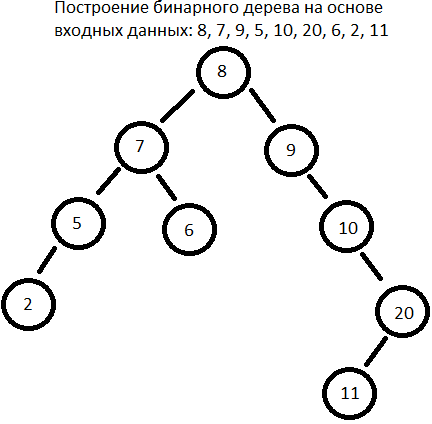
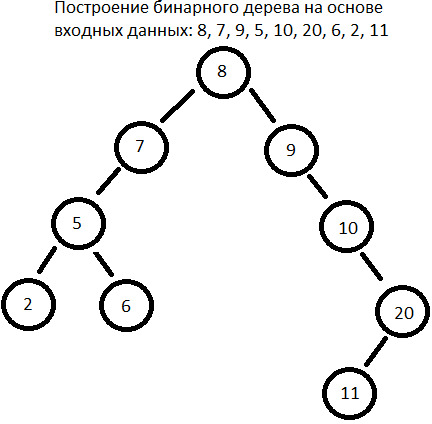
binary search

diff --git a/Конспекты/Алгоритмы и Структуры данных/Бинарное дерево/script.js b/Конспекты/Алгоритмы и Структуры данных/Бинарное дерево/script.js
@@ -1,0 +1,128 @@
+// BinarySearchTree
+// https://rutube.ru/video/f2cefc40b11b82920b54fc7aa82e5ec7/?r=wd
+class BinaryTreeNode {
+    constructor(value) {
+        this.value = value;
+        this.left = null;
+        this.right = null;
+    }
+}
+
+/*
+  1) каждый вновь добавляемый элемент - если он меньше root, то добавляется в левую часть,
+   если больше - то в правую. При этом проверка проходит на каждом имеющемся уровне дерева, пока 
+   элемент не найдет свое место.
+*/
+class BinaryTree {
+    constructor() {
+        this.root = null;
+    }
+
+    add(value) {
+        const newNode = new BinaryTreeNode(value);
+
+        if (!this.root) {
+            this.root = newNode
+            return;
+        }
+
+        let currentNode = this.root;
+
+        while (currentNode) {
+            if (value < currentNode.value) {
+                if (!currentNode.left) {
+                    currentNode.left = newNode;
+                    break;
+                } else {
+                    currentNode = currentNode.left;
+                }
+            } else {
+                if (!currentNode.right) {
+                    currentNode.right = newNode;
+                    break;
+                } else {
+                    currentNode = currentNode.right;
+                }
+            }
+        }
+    }
+
+    _preOrder(node, callback) {
+        if (!node) {
+            return;
+        }
+
+        callback(node);
+
+        this._preOrder(node.left, callback);
+
+        this._preOrder(node.right, callback);
+    }
+
+    _inOrder(node, callback) {
+        if (!node) {
+            return;
+        }
+
+        this._inOrder(node.left, callback);
+
+        callback(node);
+
+        this._inOrder(node.right, callback);
+    }
+
+    _postOrder(node, callback) {
+        if (!node) {
+            return;
+        }
+
+        this._postOrder(node.left, callback);
+
+        this._postOrder(node.right, callback);
+
+        callback(node);
+    }
+
+    traverseDFS(method, callback) {
+        // in order - спустились до листа ветки - сделали действие 
+        // pre order - действие с node и идем в глубину
+        // post order - идем в левую ветку, потом в правую и делаем действие с node 
+        this[method](this.root, callback);
+    }
+
+    traverseBFS(callback) {
+        const queue = [this.root];
+
+        while (queue.length) {
+            const node = queue.shift();
+
+            callback(node);
+
+            if (node.left) {
+                queue.push(node.left)
+            }
+
+            if (node.right) {
+                queue.push(node.right);
+            }
+
+        }
+    }
+}
+
+const tree = new BinaryTree();  
+
+tree.add(8);
+tree.add(7);
+tree.add(9);
+tree.add(5);
+tree.add(10);
+tree.add(20);
+tree.add(6);
+tree.add(2);
+tree.add(11);
+
+console.log(tree);
+
+//tree.traverseDFS('_postOrder', (node) => console.log(node.value));
+tree.traverseBFS((node) => console.log(node.value));
